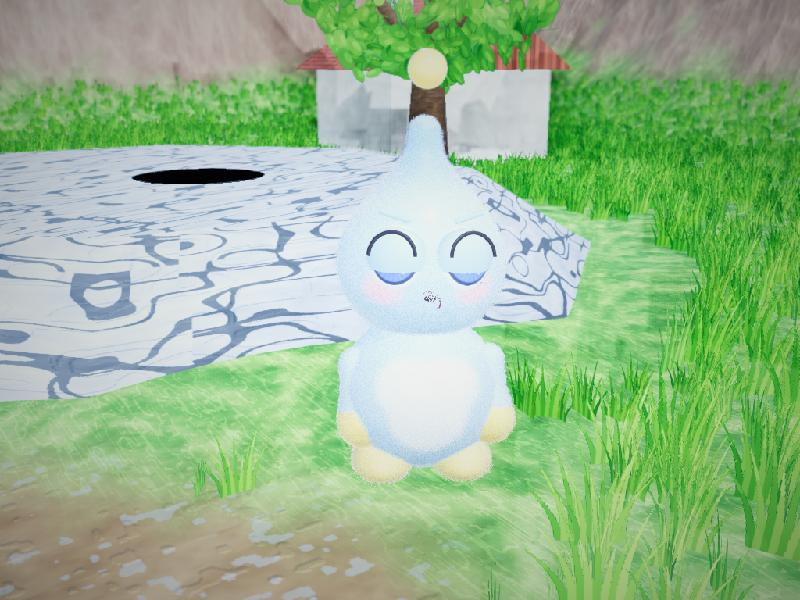
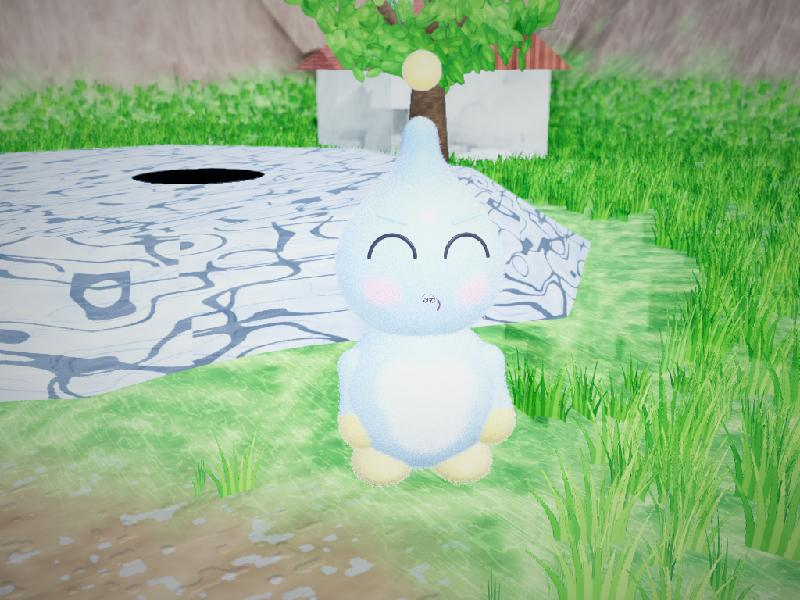
Happy shut eyes hide the eyeball and draw the lash arc on the skin

diff --git a/src/samples/creatures.ts b/src/samples/creatures.ts
@@ -423,6 +423,8 @@ export interface EyeRig {
   arc: THREE.Mesh;
   /** The brow ridge; `userData.baseY` and `userData.r` size its lift and tilt. */
   brow: THREE.Mesh;
+  /** Everything that makes the open eye: hidden when the eye shuts into the arc, so the skin shows. */
+  ball: THREE.Object3D[];
 }
 
 /**
@@ -565,7 +567,7 @@ export function eye(
     ),
     0,
     r * 0.05,
-    r * 0.46,
+    r * 0.12,
   );
   arc.scale.set(1, tall * 0.9, 0.5);
   arc.visible = false;
@@ -589,7 +591,14 @@ export function eye(
   brow.userData.r = r;
   brow.castShadow = false;
   parent.add(g);
-  return { group: g, lid: lidMesh, lower, arc, brow };
+  return {
+    group: g,
+    lid: lidMesh,
+    lower,
+    arc,
+    brow,
+    ball: [white, disc, gloss, liner, lidMesh, lowerWrap],
+  };
 }
 
 export interface Part {

diff --git a/src/samples/species.ts b/src/samples/species.ts
@@ -719,7 +719,10 @@ export function buildSpecies(spec: SpeciesSpec): Rigged {
     else blink(lids, t, 0.6);
     for (const e of eyes) {
       e.lower.rotation.x = (e.lower.userData.base as number) + ex.squint * k * 0.95;
-      e.arc.visible = ex.arc && lidClose > 0.8;
+      // A happy shut eye is the skin with a lash arc on it, not lids over a dome.
+      const shut = ex.arc && lidClose > 0.8;
+      e.arc.visible = shut;
+      for (const p of e.ball) p.visible = !shut;
       const side = e.brow.userData.side as number;
       const r = e.brow.userData.r as number;
       e.brow.rotation.z = Math.PI / 2 + ex.brow * k * side;

diff --git a/PROGRESS.md b/PROGRESS.md
@@ -27,6 +27,9 @@ report back": the face group (items 1, 2, 4, 5, 6, 7) on the Nubbin.
   way to the open ring past 30% open.
 - Nubbin: blush marks under the eyes.
 - Shots: `docs/samples/expr-nubbin-idle/happy/eat/sleep.jpg`, `expr-nubbin-happy-35.jpg`.
+- Fix (Maor: happy frames "look weird"): the lids over the dome left the iris peeking out
+  under a floating arc. A happy shut eye now hides the whole eyeball and lids so the
+  head's skin shows, and the lash arc sits on the skin (`EyeRig.ball`).
 - Still open in the face group: eye tracking (item 3). The other four creatures get the
   same rig automatically but have not been tuned (brows on Bolder/Wisp may want hiding).
 
